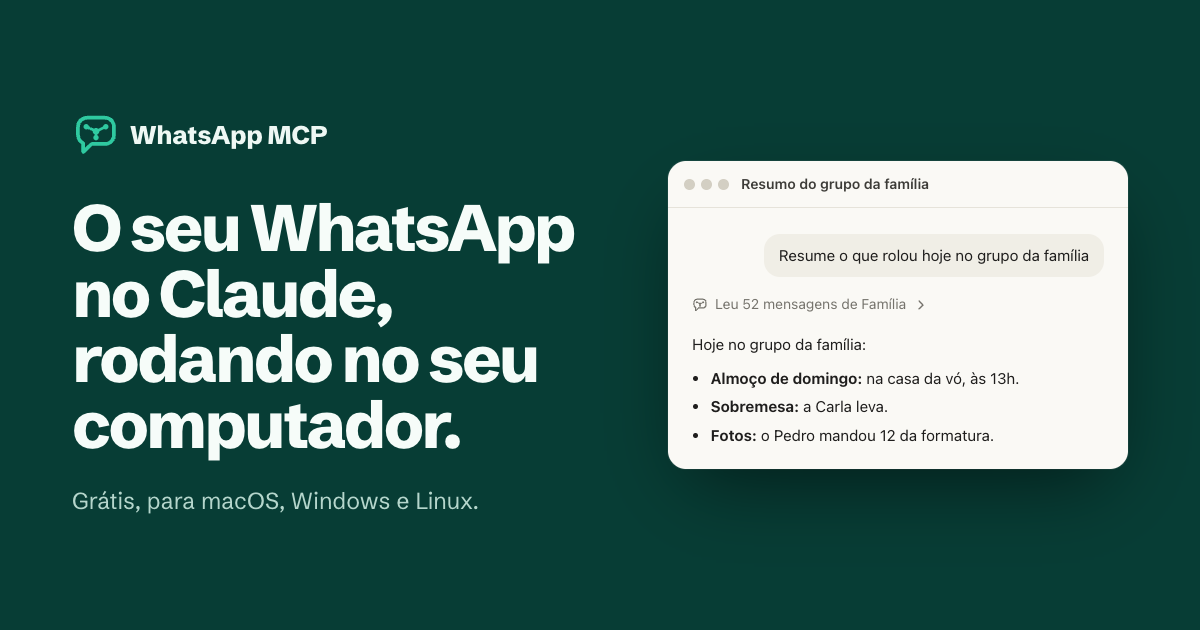
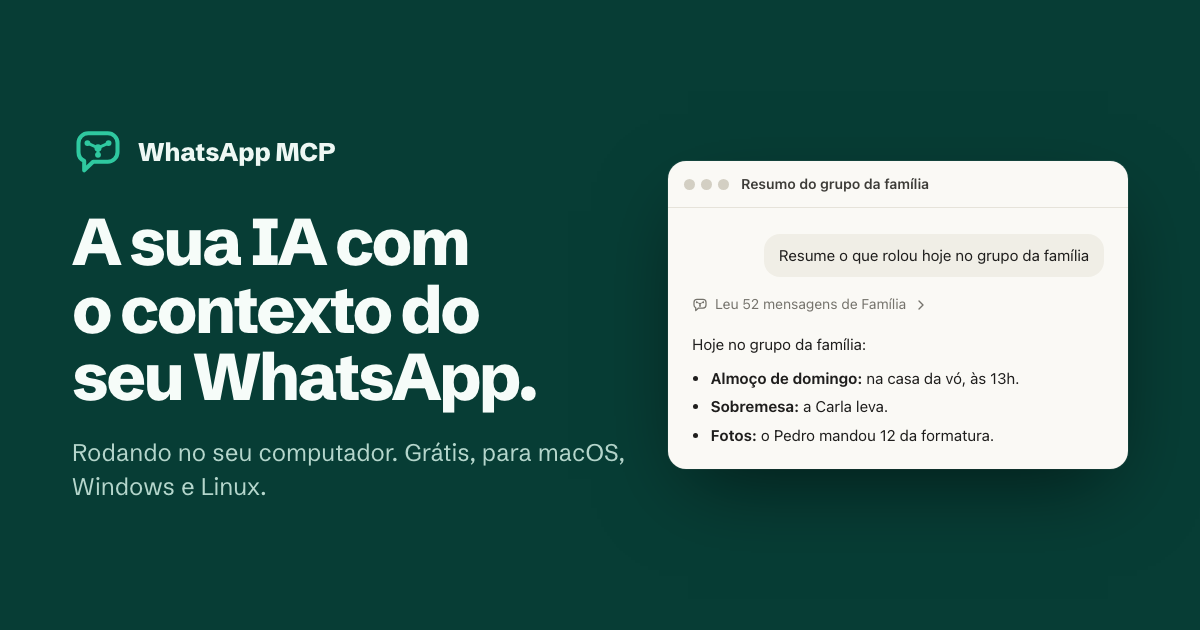
docs(site): any MCP tool, not only Claude, and an FAQ
People on X asked whether the app works beyond Claude and whether WhatsApp
bans the number. The hero, the steps, the share image and the download page
now speak of any AI tool that takes MCP, naming Claude and Codex.

A new FAQ, as an accordion, answers the ban question (what causes a ban,
what the app is for, a link to WhatsApp's terms), which tools work, how to
bring older history and whether WhatsApp Business works. A link to a
question (#banimento) opens it. The poll example leaves the hero.

Claude-Session: https://claude.ai/code/session_0198NK1J26ep5tkYJQcCNr7o

Changed region(s): [[0.0617, 0.3016, 0.5242, 0.8143], [0.0617, 0.181, 0.2775, 0.2714]]

diff --git a/site/index.html b/site/index.html
@@ -3,17 +3,17 @@
 <head>
   <meta charset="utf-8">
   <meta name="viewport" content="width=device-width, initial-scale=1">
-  <title>WhatsApp MCP: o seu WhatsApp no Claude</title>
-  <meta name="description" content="Um app gratuito para macOS, Windows e Linux que conecta o seu WhatsApp ao Claude. Resuma grupos, ache mensagens, responda e transcreva áudios, com as mensagens no seu computador.">
+  <title>WhatsApp MCP: a sua IA com o contexto do seu WhatsApp</title>
+  <meta name="description" content="Um app gratuito para macOS, Windows e Linux que conecta o seu WhatsApp ao Claude, ao Codex e a qualquer ferramenta de IA que aceite MCP. Resuma grupos, ache mensagens, responda e transcreva áudios, com as mensagens no seu computador.">
   <link rel="canonical" href="https://whatsapp-mcp.brorlandi.xyz/">
   <meta name="theme-color" content="#073d35">
   <meta property="og:type" content="website">
   <meta property="og:locale" content="pt_BR">
   <meta property="og:site_name" content="WhatsApp MCP">
-  <meta property="og:title" content="WhatsApp MCP: o seu WhatsApp no Claude">
-  <meta property="og:description" content="Um app gratuito para macOS, Windows e Linux. Peça ao Claude para resumir grupos, achar mensagens, responder e transcrever áudios.">
+  <meta property="og:title" content="WhatsApp MCP: a sua IA com o contexto do seu WhatsApp">
+  <meta property="og:description" content="Um app gratuito para macOS, Windows e Linux. Peça ao Claude, ao Codex ou à sua ferramenta de IA para resumir grupos, achar mensagens, responder e transcrever áudios.">
   <meta property="og:url" content="https://whatsapp-mcp.brorlandi.xyz/">
-  <meta property="og:image" content="https://whatsapp-mcp.brorlandi.xyz/assets/og.png">
+  <meta property="og:image" content="https://whatsapp-mcp.brorlandi.xyz/assets/og.png?v=2">
   <meta property="og:image:width" content="1200">
   <meta property="og:image:height" content="630">
   <meta name="twitter:card" content="summary_large_image">
@@ -29,6 +29,7 @@
     <symbol id="i-logo" viewBox="0 0 64 64"><g fill="none" stroke="currentColor" stroke-width="5" stroke-linecap="round" stroke-linejoin="round"><path d="M20 9h24a12 12 0 0 1 12 12v11a12 12 0 0 1-12 12H26L15 54.5V43a12 12 0 0 1-7-11V21A12 12 0 0 1 20 9Z"/><path d="M19 21l13 6 13-6M32 27v8.5" stroke-width="3.6"/></g><g fill="currentColor"><circle cx="19" cy="21" r="3.6"/><circle cx="45" cy="21" r="3.6"/><circle cx="32" cy="35.5" r="3.6"/><circle cx="32" cy="27" r="4.4"/></g></symbol>
     <symbol id="i-github" viewBox="0 0 24 24"><path fill="currentColor" d="M12 .297c-6.63 0-12 5.373-12 12 0 5.303 3.438 9.8 8.205 11.385.6.113.82-.258.82-.577 0-.285-.01-1.04-.015-2.04-3.338.724-4.042-1.61-4.042-1.61C4.422 18.07 3.633 17.7 3.633 17.7c-1.087-.744.084-.729.084-.729 1.205.084 1.838 1.236 1.838 1.236 1.07 1.835 2.809 1.305 3.495.998.108-.776.417-1.305.76-1.605-2.665-.3-5.466-1.332-5.466-5.93 0-1.31.465-2.38 1.235-3.22-.135-.303-.54-1.523.105-3.176 0 0 1.005-.322 3.3 1.23.96-.267 1.98-.399 3-.405 1.02.006 2.04.138 3 .405 2.28-1.552 3.285-1.23 3.285-1.23.645 1.653.24 2.873.12 3.176.765.84 1.23 1.91 1.23 3.22 0 4.61-2.805 5.625-5.475 5.92.42.36.81 1.096.81 2.22 0 1.606-.015 2.896-.015 3.286 0 .315.21.69.825.57C20.565 22.092 24 17.592 24 12.297c0-6.627-5.373-12-12-12"/></symbol>
     <symbol id="i-chevron" viewBox="0 0 24 24"><path d="M9 6l6 6-6 6" fill="none" stroke="currentColor" stroke-width="2" stroke-linecap="round" stroke-linejoin="round"/></symbol>
+    <symbol id="i-plus" viewBox="0 0 24 24"><path d="M12 5v14M5 12h14" fill="none" stroke="currentColor" stroke-width="2.2" stroke-linecap="round"/></symbol>
     <symbol id="i-send" viewBox="0 0 24 24"><path d="M12 19V5M6 11l6-6 6 6" fill="none" stroke="currentColor" stroke-width="2.2" stroke-linecap="round" stroke-linejoin="round"/></symbol>
     <symbol id="i-download" viewBox="0 0 24 24"><path d="M12 4v11M7 10.5l5 5 5-5M5 20h14" fill="none" stroke="currentColor" stroke-width="2.2" stroke-linecap="round" stroke-linejoin="round"/></symbol>
     <symbol id="i-check" viewBox="0 0 24 24"><circle cx="12" cy="12" r="10" fill="currentColor" opacity=".14"/><path d="M7.5 12.5l3 3 6-6.5" fill="none" stroke="currentColor" stroke-width="2.2" stroke-linecap="round" stroke-linejoin="round"/></symbol>
@@ -45,6 +46,7 @@
       <a class="brand" href="/"><svg viewBox="0 0 64 64" aria-hidden="true"><use href="#i-logo"/></svg>WhatsApp MCP</a>
       <nav class="nav" aria-label="Principal">
         <a class="nav__link nav__link--page" href="#como-funciona">Como funciona</a>
+        <a class="nav__link nav__link--page" href="#perguntas">Perguntas</a>
         <a class="nav__link nav__link--page" href="/servidor">Versão servidor</a>
         <a class="nav__link nav__link--gh" href="https://github.com/BrOrlandi/whatsapp-mcp-local"><svg aria-hidden="true"><use href="#i-github"/></svg><span>GitHub</span></a>
         <a class="btn btn--mint btn--sm" href="/download">Baixar</a>
@@ -54,8 +56,8 @@
     <section class="wrap hero" id="conteudo">
       <div class="hero__grid">
         <div>
-          <h1>O seu WhatsApp no Claude, rodando no seu computador.</h1>
-          <p class="hero__lead">Peça ao Claude para resumir um grupo, achar uma mensagem de meses atrás, responder alguém ou transcrever um áudio. As mensagens não saem da sua máquina.</p>
+          <h1>A sua IA com o contexto do seu WhatsApp, rodando no seu computador.</h1>
+          <p class="hero__lead">Peça ao Claude, ao Codex ou à ferramenta de IA que você usa para resumir um grupo, achar uma mensagem de meses atrás, responder alguém ou transcrever um áudio. As mensagens não saem da sua máquina.</p>
           <div class="hero__actions">
             <a class="btn btn--mint btn--lg" href="/download"><svg aria-hidden="true"><use href="#i-download"/></svg>Baixar o app</a>
             <a class="btn btn--line-dark btn--lg" href="https://github.com/BrOrlandi/whatsapp-mcp-local"><svg aria-hidden="true"><use href="#i-github"/></svg>Ver no GitHub</a>
@@ -64,7 +66,7 @@
         </div>
 
         <div>
-          <div class="chat" data-chat aria-label="Exemplo de conversa com o Claude">
+          <div class="chat" data-chat aria-label="Exemplo de conversa com uma ferramenta de IA">
             <div class="chat__bar">
               <span class="chat__dots" aria-hidden="true"><span></span><span></span><span></span></span>
               <span class="chat__title">Resumo do grupo da família</span>
@@ -85,7 +87,6 @@
             <button class="chip" type="button" data-scenario="0" aria-pressed="true">Resumir um grupo</button>
             <button class="chip" type="button" data-scenario="1" aria-pressed="false">Achar uma mensagem</button>
             <button class="chip" type="button" data-scenario="2" aria-pressed="false">Transcrever um áudio</button>
-            <button class="chip" type="button" data-scenario="3" aria-pressed="false">Criar uma enquete</button>
           </div>
         </div>
       </div>
@@ -107,8 +108,8 @@
               <p>No WhatsApp, entre em Dispositivos conectados e aponte a câmera para o código. Se preferir, peça um código para digitar no celular.</p>
             </li>
             <li>
-              <h3>Conecte o Claude</h3>
-              <p>Um clique liga o Claude Desktop (chat e Cowork) ou o Claude Code. Para outras ferramentas, o app dá um texto pronto para colar.</p>
+              <h3>Conecte a sua ferramenta de IA</h3>
+              <p>Um clique liga o Claude Desktop (chat e Cowork) ou o Claude Code. Para o Codex, o Cursor e outras ferramentas que aceitam MCP, o app dá um texto pronto para colar.</p>
             </li>
           </ol>
         </div>
@@ -160,9 +161,52 @@
             <p>Para receber mensagens, o app precisa estar aberto. Se o computador ficar desligado por pouco tempo, o WhatsApp entrega o que ficou pendente quando ele volta.</p>
           </div>
           <div>
-            <h3>Claude neste computador</h3>
-            <p>Funciona com o Claude Desktop, o Claude Code e outras ferramentas que aceitam MCP nesta máquina. O claude.ai no navegador e o app do celular não alcançam o seu computador; para eles, a alternativa é a <a href="/servidor">versão servidor</a>, no lugar do app.</p>
+            <h3>A ferramenta de IA roda neste computador</h3>
+            <p>Funciona com qualquer ferramenta de IA que aceite MCP e rode nesta máquina, como o Claude Desktop, o Claude Code, o Codex e o Cursor. O claude.ai no navegador e os apps de celular não alcançam o seu computador; para eles, a alternativa é a <a href="/servidor">versão servidor</a>, no lugar do app.</p>
           </div>
+        </div>
+      </div>
+    </section>
+
+    <section class="section" id="perguntas">
+      <div class="wrap">
+        <h2>Perguntas frequentes</h2>
+        <div class="faq">
+          <details class="faq__item" id="banimento">
+            <summary><h3>Tem risco de a Meta banir o meu número?</h3><svg class="faq__icon" viewBox="0 0 24 24" aria-hidden="true"><use href="#i-plus"/></svg></summary>
+            <div class="faq__answer">
+              <p>O app, por si só, não causa banimento. O que leva a Meta a banir uma conta é o jeito como a conta envia mensagens:</p>
+              <ul>
+                <li>disparar mensagens de forma automatizada e em massa;</li>
+                <li>mandar a mesma mensagem, repetida, para muitos contatos;</li>
+                <li>enviar num ritmo que nenhuma pessoa teria, com um comportamento que não parece humano.</li>
+              </ul>
+              <p>O WhatsApp MCP foi feito para levar o contexto das suas conversas, como os grupos de trabalho com clientes, para as ferramentas de IA. Ele não foi feito para disparo em massa nem para criar chatbots. Usado para o que foi feito, não deve causar banimento nem problemas com a Meta.</p>
+              <p>Se ainda ficar alguma dúvida, leia os <a href="https://www.whatsapp.com/legal/terms-of-service?lang=pt_BR">Termos de Serviço do WhatsApp</a>.</p>
+            </div>
+          </details>
+          <details class="faq__item" id="ferramentas">
+            <summary><h3>Com quais ferramentas de IA funciona?</h3><svg class="faq__icon" viewBox="0 0 24 24" aria-hidden="true"><use href="#i-plus"/></svg></summary>
+            <div class="faq__answer">
+              <p>Com qualquer ferramenta de IA que aceite MCP e rode no seu computador, como o Claude Desktop (chat e Cowork), o Claude Code, o Codex, o Cursor e o Windsurf.</p>
+              <p>O Claude Desktop e o Claude Code se conectam com um clique no app. Para as outras, o app dá um texto pronto: você cola no chat da ferramenta e ela mesma se configura.</p>
+              <p>O claude.ai no navegador e os apps de celular não alcançam o seu computador. Para eles, existe a <a href="/servidor">versão servidor</a>.</p>
+            </div>
+          </details>
+          <details class="faq__item" id="historico">
+            <summary><h3>Como trazer mensagens mais antigas?</h3><svg class="faq__icon" viewBox="0 0 24 24" aria-hidden="true"><use href="#i-plus"/></svg></summary>
+            <div class="faq__answer">
+              <p>Quando você conecta, o WhatsApp manda para o app parte do histórico recente, como faz com o WhatsApp Web. Daí em diante, tudo o que chega fica guardado no seu computador.</p>
+              <p>Para voltar mais numa conversa, peça à sua IA para buscar as mensagens mais antigas dela. O app pede ao seu celular, que precisa estar com internet, e as mensagens chegam aos poucos, das mais novas para as mais antigas. O próprio WhatsApp limita até onde dá para voltar.</p>
+              <p>Para ter uma conversa inteira, exporte pelo celular (nas opções da conversa, Exportar conversa) e entregue o arquivo à sua IA.</p>
+            </div>
+          </details>
+          <details class="faq__item" id="business">
+            <summary><h3>Funciona com o WhatsApp Business?</h3><svg class="faq__icon" viewBox="0 0 24 24" aria-hidden="true"><use href="#i-plus"/></svg></summary>
+            <div class="faq__answer">
+              <p>Sim. Funciona com o WhatsApp comum e com o WhatsApp Business: o app entra na conta como um dispositivo conectado, igual ao WhatsApp Web.</p>
+            </div>
+          </details>
         </div>
       </div>
     </section>

diff --git a/site/download/index.html b/site/download/index.html
@@ -4,16 +4,16 @@
   <meta charset="utf-8">
   <meta name="viewport" content="width=device-width, initial-scale=1">
   <title>Baixar o WhatsApp MCP Local</title>
-  <meta name="description" content="Baixe o WhatsApp MCP Local para macOS, Windows ou Linux e conecte o seu WhatsApp ao Claude.">
+  <meta name="description" content="Baixe o WhatsApp MCP Local para macOS, Windows ou Linux e conecte o seu WhatsApp ao Claude, ao Codex ou à sua ferramenta de IA.">
   <link rel="canonical" href="https://whatsapp-mcp.brorlandi.xyz/download">
   <meta name="theme-color" content="#073d35">
   <meta property="og:type" content="website">
   <meta property="og:locale" content="pt_BR">
   <meta property="og:site_name" content="WhatsApp MCP">
   <meta property="og:title" content="Baixar o WhatsApp MCP Local">
-  <meta property="og:description" content="Grátis, para macOS, Windows e Linux. Conecte o seu WhatsApp ao Claude.">
+  <meta property="og:description" content="Grátis, para macOS, Windows e Linux. Conecte o seu WhatsApp ao Claude, ao Codex ou à sua ferramenta de IA.">
   <meta property="og:url" content="https://whatsapp-mcp.brorlandi.xyz/download">
-  <meta property="og:image" content="https://whatsapp-mcp.brorlandi.xyz/assets/og.png">
+  <meta property="og:image" content="https://whatsapp-mcp.brorlandi.xyz/assets/og.png?v=2">
   <meta property="og:image:width" content="1200">
   <meta property="og:image:height" content="630">
   <meta name="twitter:card" content="summary_large_image">
@@ -118,8 +118,8 @@
               <p>No WhatsApp, entre em Configurações › Dispositivos conectados › Conectar um dispositivo e aponte a câmera para o código do app. Se preferir, peça um código para digitar no celular.</p>
             </li>
             <li>
-              <h3>Conecte o Claude</h3>
-              <p>Um clique liga o Claude Desktop (chat e Cowork) ou o Claude Code. Para outras ferramentas que aceitam MCP, o app dá um texto pronto para colar.</p>
+              <h3>Conecte a sua ferramenta de IA</h3>
+              <p>Um clique liga o Claude Desktop (chat e Cowork) ou o Claude Code. Para o Codex, o Cursor e outras ferramentas que aceitam MCP, o app dá um texto pronto para colar.</p>
             </li>
           </ol>
         </div>

diff --git a/site/assets/site.css b/site/assets/site.css
@@ -262,6 +262,33 @@ code {
 .notes p { margin-top: 8px; font-size: 1rem; color: var(--ink-soft); }
 @media (max-width: 820px) { .notes { grid-template-columns: minmax(0, 1fr); } }
 
+.faq { max-width: 860px; margin-top: 40px; border-bottom: 1px solid var(--line); }
+.faq__item { border-top: 1px solid var(--line); scroll-margin-top: 24px; }
+.faq__item summary {
+  display: flex;
+  align-items: center;
+  justify-content: space-between;
+  gap: 24px;
+  padding: 24px 0;
+  list-style: none;
+  cursor: pointer;
+}
+.faq__item summary::-webkit-details-marker { display: none; }
+.faq__item summary h3 { font-size: 1.25rem; letter-spacing: -0.015em; }
+.faq__item summary:hover h3 { color: var(--brand-strong); }
+.faq__icon { flex: none; width: 24px; height: 24px; color: var(--brand); }
+.faq__item[open] .faq__icon { transform: rotate(45deg); }
+.faq__answer { max-width: 62ch; padding-bottom: 28px; color: var(--ink-soft); }
+.faq__answer ul { margin: 0.6em 0 0; padding-left: 1.2em; }
+.faq__answer li + li { margin-top: 0.3em; }
+.faq__answer ul + p { margin-top: 0.9em; }
+@media (prefers-reduced-motion: no-preference) {
+  .faq { interpolate-size: allow-keywords; }
+  .faq__icon { transition: transform 0.2s; }
+  .faq__item::details-content { block-size: 0; overflow: hidden; transition: block-size 0.25s ease, content-visibility 0.25s allow-discrete; }
+  .faq__item[open]::details-content { block-size: auto; }
+}
+
 .cta { background: var(--deep); color: var(--on-deep); padding-block: clamp(64px, 9vw, 104px); }
 .cta__inner { display: flex; flex-wrap: wrap; align-items: center; justify-content: space-between; gap: 28px; }
 .cta h2 { font-size: clamp(2rem, 4vw, 3rem); color: #f6fcf9; }

diff --git a/site/assets/site.js b/site/assets/site.js
@@ -55,6 +55,14 @@
     });
   });
 
+  // A link to a question (#banimento) opens it.
+  function openFromHash() {
+    const target = location.hash && document.getElementById(decodeURIComponent(location.hash.slice(1)));
+    if (target && target.tagName === "DETAILS") target.open = true;
+  }
+  openFromHash();
+  window.addEventListener("hashchange", openFromHash);
+
   // The hero conversation: a request, what the app did in WhatsApp, and the answer.
   const chat = document.querySelector("[data-chat]");
   if (!chat) return;
@@ -91,17 +99,6 @@
         "<p>O Marcos disse:</p>",
         "<blockquote>Fala! Consegui adiantar a reunião com o cliente para quinta, às 10h. Se puder, leva o contrato impresso, que eles querem assinar lá mesmo.</blockquote>",
         "<p><strong>Resumindo:</strong> reunião na quinta às 10h, e levar o contrato impresso.</p>",
-      ],
-    },
-    {
-      title: "Enquete da pelada",
-      ask: "Cria uma enquete no grupo da pelada: sábado ou domingo?",
-      working: "Enviando a enquete para Pelada dos amigos",
-      done: "Enviou uma enquete para Pelada dos amigos",
-      reply: [
-        "<p>Pronto, a enquete está no grupo Pelada dos amigos:</p>",
-        "<ul><li><strong>Pergunta:</strong> Qual dia fica melhor?</li><li><strong>Opções:</strong> Sábado e Domingo</li></ul>",
-        "<p>Quando quiser, eu te conto qual dia ganhou.</p>",
       ],
     },
   ];
